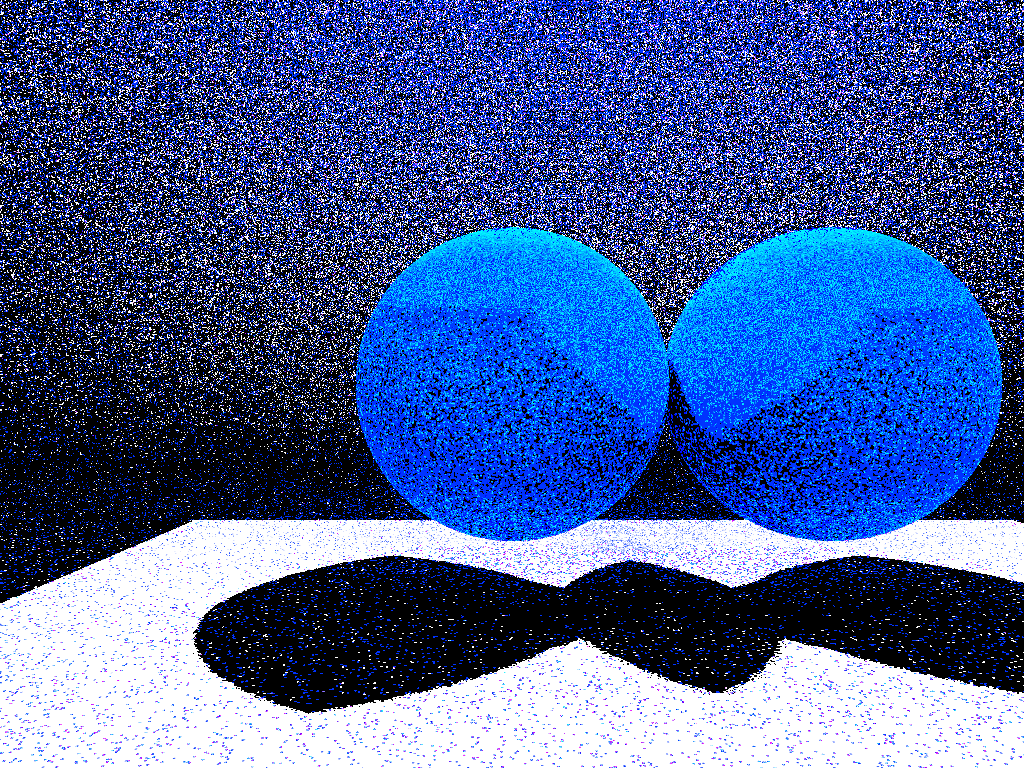
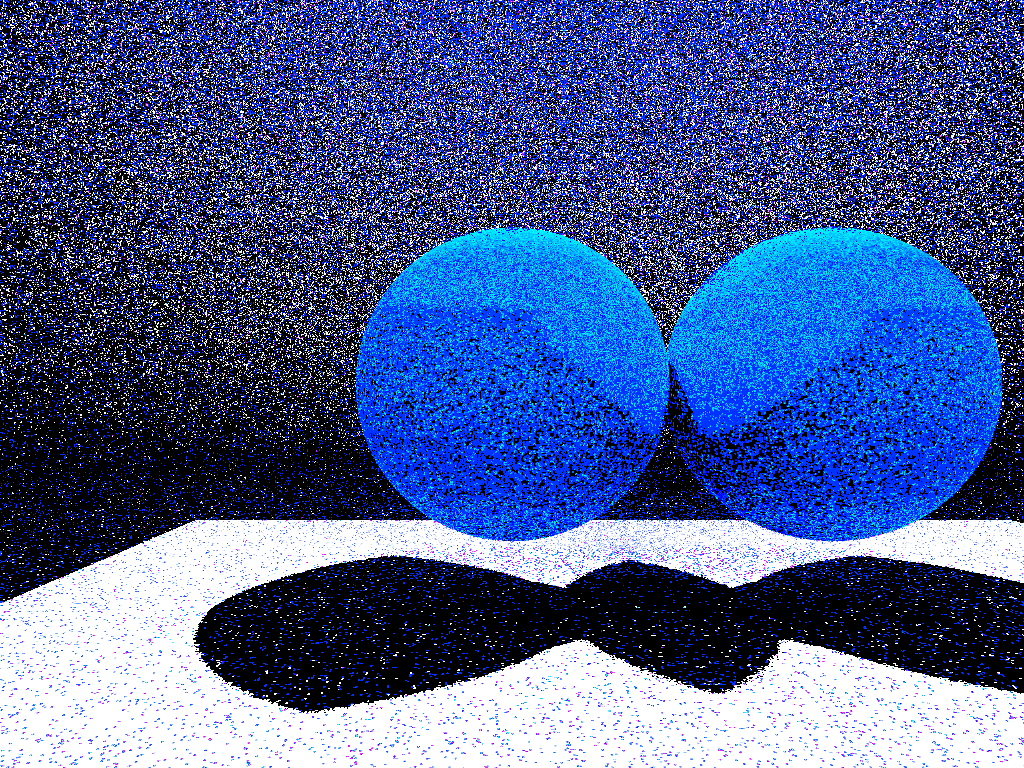
多线程发射光子

diff --git a/src/core/mod.rs b/src/core/mod.rs
@@ -9,61 +9,61 @@ use crate::scene::Scene;
 use crate::util::*;
 use crate::camera::Camera;
 use std::vec::Vec;
-use std::cell::RefCell;
-use std::sync::Arc;
+use std::sync::{ Arc, Mutex, mpsc::channel };
+use std::boxed::Box;
+use std::thread::spawn;
 use kdtree::kdtree::KdTree as Kd;
 use kdtree::distance::squared_euclidean;
 extern crate rand;
 pub use rand::Rng;
 
-pub struct Render {
+struct RenderInner {
     //class : TraceType,  // 渲染算法类型
     camera : Arc<Camera>,   // 相机，只读
-    picture: Vec<Color>,    // 所有线程结束之后才会写回,无需互斥
     width : usize,
     height : usize,
     scene: Arc<Scene>,  // 场景，只读
-    hit_point_map : Arc<RefCell<Kd<f64, Arc<RefCell<ViewPoint>>, [f64;3]>>>,
-    points : Arc<RefCell<Vec<Arc<RefCell<ViewPoint>>>>>,
-    photon_map : Arc<RefCell<Kd<f64, Photon, [f64;3]>>>,   // 光子图
-    photon_tracer : PhotonTracer,
+    hit_point_map : Arc<Mutex<Kd<f64, Box<ViewPoint>>, [f64;3]>>>,
+    points : Arc<Vec<Arc<Mutex<ViewPoint>>>>,
+    photon_map : Arc<Mutex<Kd<f64, Photon, [f64;3]>>>,   // 光子图
+    photon_tracer : Arc<Mutex<PhotonTracer>>,
     ray_tracer : RayTracer,
 }
 
-impl Render {
+impl RenderInner {
     pub fn new(camera : Camera, scene : Scene) -> Self {
         let scene = Arc::new(scene);
         let width = camera.width;
         let height = camera.height;
-        Render{
+        RenderInner{
             //class : TraceType::PPM,
             camera : Arc::new(camera) ,
-            picture: Vec::new(),
             width,
             height,
             scene : scene.clone(),
-            hit_point_map : Arc::new(RefCell::new(Kd::new(3))),
-            points : Arc::new(RefCell::new(Vec::new())),
-            photon_map : Arc::new(RefCell::new(Kd::new(3))),
-            photon_tracer : PhotonTracer::new(scene.clone()),
+            hit_point_map : Arc::new(Mutex::new(Kd::new(3))),
+            points : Arc::new(Vec::new()),
+            photon_map : Arc::new(Mutex::new(Kd::new(3))),
+            photon_tracer : Arc::new(Mutex::new(PhotonTracer::new(scene.clone()))),
             ray_tracer : RayTracer::new(scene),
         }
     }
 
     // 光线追踪阶段
-    pub fn ray_tarcing(&mut self, sampling : usize) {
-        let photon_map = self.photon_map.borrow();
+    pub fn ray_tarcing(&self, sampling : usize, picture : &mut Vec<Color>) {
         let f = | collider : &Collider| -> Color{
-            let mut coord : [f64;3] = [0.0, 0.0, 0.0];
-            coord[0] = collider.pos.x;
-            coord[1] = collider.pos.y;
-            coord[2] = collider.pos.z;
-            let result = photon_map.within(&coord, 1.0, &squared_euclidean).unwrap();
             let mut ret = Color::default();
-            for (_, photon) in result.iter() {
-                ret += photon.power;
+            if let Ok(photon_map) = self.photon_map.lock() {
+                let mut coord : [f64;3] = [0.0, 0.0, 0.0];
+                coord[0] = collider.pos.x;
+                coord[1] = collider.pos.y;
+                coord[2] = collider.pos.z;
+                let result = photon_map.within(&coord, 1.0, &squared_euclidean).unwrap();
+                for (_, photon) in result.iter() {
+                    ret += photon.power;
+                }
+                if !result.is_empty() { ret.div(result.len() as f64); }
             }
-            if !result.is_empty() { ret.div(result.len() as f64); }
             ret
         };
         let sampling2 : f64 = (sampling * sampling) as f64;
@@ -78,7 +78,7 @@ impl Render {
                         a_vec = ray.d + dx.mult(x as f64 / sampling as f64 - 0.5).mult(0.001) 
                             + dy.mult(y as f64 / sampling as f64 - 0.5).mult(0.001);
                         let a_ray = Ray { o : ray.o, d : a_vec };
-                        self.picture[j * self.width + i] += self.ray_tracer.trace_ray(&a_ray, 1.0, 0, f).div(sampling2);
+                        picture[j * self.width + i] += self.ray_tracer.trace_ray(&a_ray, 1.0, 0, f).div(sampling2);
                     }
                 }
             }
@@ -92,35 +92,64 @@ impl Render {
             coord[0] = photon.ray.o.x;
             coord[1] = photon.ray.o.y;
             coord[2] = photon.ray.o.z;
-            self.photon_map
-                .borrow_mut()
-                .add(coord, photon)
-                .unwrap();
+            if let Ok(mut p_map) = self.photon_map.lock() {
+                p_map.add(coord, photon).unwrap();
+            }
         };
         let number = self.scene.get_light_num();
         for i in 0..number {    // 按照光源顺序不断发射光子
             let illumiant = self.scene.get_light(i);
             for _ in 0..photon_number {
-                self.photon_tracer.photon_tracing(illumiant.gen_photon(), 0, f);
+                if let Ok(ph_tracer) = self.photon_tracer.lock() {
+                    ph_tracer.photon_tracing(illumiant.gen_photon(), 0, f);
+                }
             }
         }
     }
 
-    pub fn run(&mut self, times : usize, photon_num : usize) {
+}
+
+pub struct Render {
+    inner : Arc<RenderInner>,
+    picture: Vec<Color>,    // 所有线程结束之后才会写回,无需互斥
+    width : usize,
+    height : usize,
+}
+
+impl Render {
+    pub fn new(camera : Camera, scene : Scene) -> Self {
+        let width = camera.width;
+        let height = camera.height;
+        Render { inner : Arc::new(RenderInner::new(camera, scene)), picture : Vec::new(), width, height}
+    }
+    
+    pub fn run(&mut self, times : usize, photon_num : usize, thread_num : usize) {
         self.picture.resize_default(self.width * self.height);
-        for i in 0..times {
-            self.photon_tracing(photon_num);
-            info!("{}th round", i); 
+        let mut handle_vec = Vec::new();
+        for i in 0..thread_num {
+            let inner = self.inner.clone();
+            let (sender, receiver) = channel();
+            spawn(move ||{
+                for j in 0..times / thread_num {
+                    info!("{} thread {} round", i, j);
+                    inner.photon_tracing(photon_num);
+                }
+                sender.send(1).unwrap();
+            });
+            handle_vec.push(receiver);
         }
-        self.ray_tarcing(4);
+        for receiver in handle_vec.iter_mut() {
+            receiver.recv().unwrap();
+        }
+        self.inner.ray_tarcing(4, &mut self.picture);
         self.gen_png();
     }
 
-    fn gen_png(&mut self) {
+    fn gen_png(&self) {
         let buffer: &mut [u16] = &mut vec![0; 1024 * 768 * 3];
         //将结果写入png
-        let width = self.camera.width;
-        let height = self.camera.height;
+        let width = self.width;
+        let height = self.height;
         for i in 0..width {
             for j in 0..height {
                 let (r, g, b) = self.picture[j * width + i].to_u16();

diff --git a/src/scene/mod.rs b/src/scene/mod.rs
@@ -10,8 +10,8 @@ use self::material::Material;
 use self::light::*;
 
 pub struct Scene {
-    objects : Vec<Box<dyn Primitive>>,  // 代表场景中的各个物体
-    illumiants : Vec<Arc<Light>>,   // 代表场景中的各个光源
+    objects : Vec<Box<Primitive + Send + Sync>>,  // 代表场景中的各个物体
+    illumiants : Vec<Arc<Light + Send + Sync>>,   // 代表场景中的各个光源
 }
 
 impl Scene {

diff --git a/src/main.rs b/src/main.rs
@@ -19,5 +19,5 @@ fn main() {
     camera.set_pos(&Vector3::new(6000.0, 5000.0, 400.0));
     camera.set_dir(Vector3::new(-1.0, 0.0, 0.0));
     let mut render = Render::new(camera, scene);
-    render.run(50, 100_0000);
+    render.run(50, 100_0000,5);
 }
